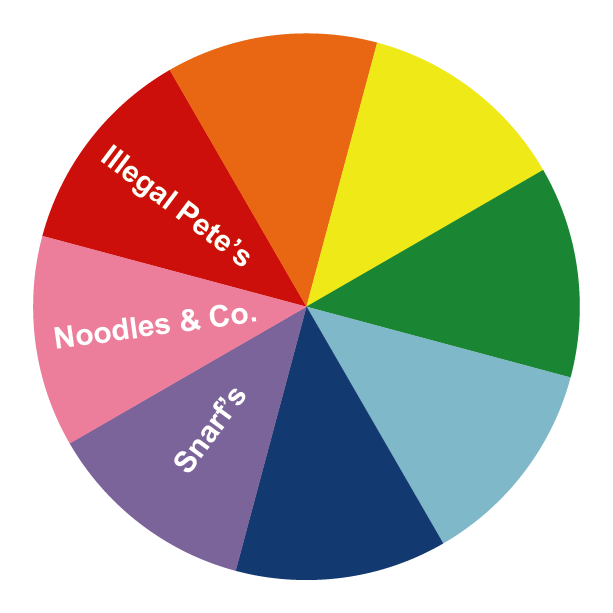
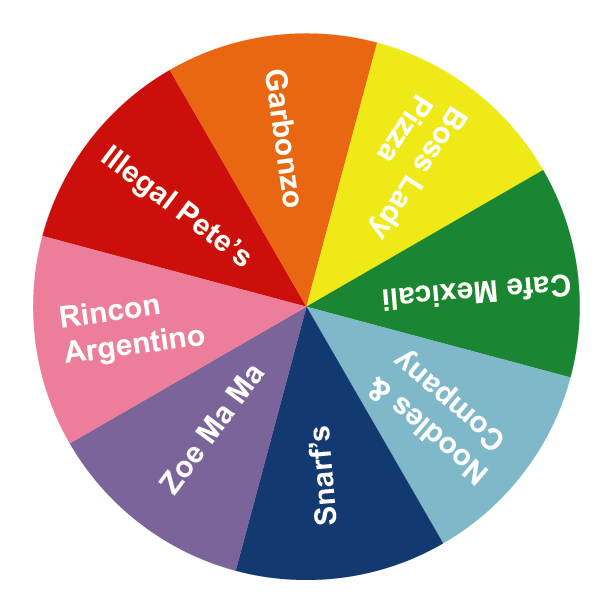
UI Programming
Updated wheel to have all titles. Fixed popup heading based on spin

diff --git a/dinnerPicker.js b/dinnerPicker.js
@@ -1,11 +1,12 @@
   var fastCasual = ["Illegal Pete's", "Rincon Argentino", "Zoe Ma Ma", "Snarfs", "Noodles and Company", "Cafe Mexicali", "Boss Lady Pizza", "Garbonzo"]
+  //var fastCasual = ["Red", "Pink", "Purple", "Blue", "LBlue", "Green", "Yellow", "Orange"];
+  var currentSpot = -192;
 
   //listen to shake event
     var shakeEvent = new Shake({threshold: 15});
     shakeEvent.start();
 
     window.addEventListener('shake', function(){
-        alert("Shaked");
         pasusePlayAnimation();
     }, false);
 
@@ -36,40 +37,60 @@ $("#spinButton").click(function(){
 
 function pasusePlayAnimation(){
     var randTime = Math.floor((Math.random() * 8000) + 1000);
-    switch(true){
-        case (randTime<2000):{
-            console.log("<2000");
-            break;
-        }
-        case (randTime<3000):{
-            console.log("<3000");
-            break;
-        }
-        case (randTime<4000):{
-            console.log("<4000");
-            break;
-        }
-        case (randTime<5000):{
-            console.log("<5000");
-            break;
-        }
-        case (randTime<6000):{
-            console.log("<7000");
-            break;
-        }
-        case (randTime<7000):{
-            console.log("<7000");
-            break;
-        }
-        default: {
-            console.log(randTime);
-            break;
-        }
-    }
+
+    //range for each spot is 375 milliseconds at the speed of 3s per rotation
+    //it first changes colors at 195
+    //need to account for where starting from, in case spun again
+    //TODO: fix edge cases
+    var scaledRandTime = (randTime+currentSpot) - Math.floor((randTime+currentSpot)/3000)*3000;
+
+    currentSpot = scaledRandTime;
+    console.log(randTime);
+    console.log(scaledRandTime);
     setTimeout(stopAnimation, randTime) //referenced from https://www.w3schools.com/js/js_timing.asp
     document.getElementById("wheel").style.animationPlayState = "running";
 }
 
 function stopAnimation(){
     document.getElementById("wheel").style.animationPlayState = "paused";
+     var newHeading = "You should eat at ";
+    switch(true){ 
+        case (currentSpot < 375  ):{
+            newHeading += fastCasual[0];
+            break;
+        }
+        case (currentSpot < 750):{
+            newHeading += fastCasual[1];
+            break;
+        }
+        case (currentSpot<1125):{
+            newHeading += fastCasual[2];
+            break;
+        }
+        case (currentSpot < 1500):{
+            newHeading += fastCasual[3];
+            break;
+        }
+        case (currentSpot < 1875):{
+            newHeading += fastCasual[4];
+            break;
+        }
+        case (currentSpot < 2250):{
+            newHeading += fastCasual[5];
+            break;
+        }
+        case (currentSpot < 2625):{
+            newHeading += fastCasual[6];
+            break;
+        }
+        default: {
+            newHeading += fastCasual[7];
+            break;
+        }
+    }
+    document.getElementById("place").innerHTML = newHeading;
+}
+
+function updateHeading(){
+    document.getElementById("place").innerHTML = newHeading;
 }

diff --git a/dinnerPicker.css b/dinnerPicker.css
@@ -9,8 +9,8 @@ h1, h2, h3, h4, h5, h6 {
 #place{
 	background: white;
 	font-size: 2.5em;
-  
-
+  width:70%;
+  margin:auto;
 }
 
 
@@ -22,13 +22,13 @@ h1, h2, h3, h4, h5, h6 {
   text-align: center;
   text-decoration: none;
   outline: none;
-  color:  #303030;
-  background-color: #4CAF50;
+  color:  #FFFFFF;
+  background-color: #484848;
   border: none;
   border-radius: 15px;
   box-shadow: 0 9px #999;
 }
-#spinButton:hover {background-color: #3e8e41}
+#spinButton:hover {background-color: #303030}
 
 #spinButton:active {
   background-color: #202020;
@@ -42,28 +42,34 @@ h1, h2, h3, h4, h5, h6 {
   	float:left;
   }
   #writtenContent{
-  	width:35%;
-  	padding-top:5%;
+  	width:40%;
+  	padding-top:8%;
+    padding-left: -50px;
   }
   #wheel{
   	margin-top: -20px;
+    margin-left:10%;
   		/*image resize: https://stackoverflow.com/questions/4684304/how-can-i-resize-an-image-dynamically-with-css-as-the-browser-width-height-chang*/
 	max-width: 500px;
-	width: 65%;
+  /*width:65%;*/
+	width: 80%;
   	height: auto;
   }
   #images{
-  	width: 65%;
+    /*width: 55%;*/
+  	width: 50%;
   	height: auto;
+    margin-left:4%;
   }
   #pointer{
-  	margin-top: -20px;
+  	margin-top: 20px;
   		/*image resize: https://stackoverflow.com/questions/4684304/how-can-i-resize-an-image-dynamically-with-css-as-the-browser-width-height-chang*/
 	max-width: 30px;
 
 	width: 40%;
   	height: auto;
-  	margin-left: 28%;
+    margin-left: 45%;
+  	/*margin-left: 38%;*/
   }
 
   h1{
@@ -74,7 +80,7 @@ h1, h2, h3, h4, h5, h6 {
 	text-align: center;
 	margin-top: -10px;
 	width: 80%;
-	margin-left: 10%
+	margin-left: -10%
 	}
 	#spinButton{
 		margin-left:30%;
@@ -101,7 +107,7 @@ h1, h2, h3, h4, h5, h6 {
   	height: auto;
   }
   #pointer{
-  	margin-top: 0px;
+  	margin-top: 15px;
   		/*image resize: https://stackoverflow.com/questions/4684304/how-can-i-resize-an-image-dynamically-with-css-as-the-browser-width-height-chang*/
 	max-width: 30px;
 
@@ -112,6 +118,9 @@ h1, h2, h3, h4, h5, h6 {
   h1{
 	text-align: center;
 	font-size: 2em;
+}
+#place{
+  font-size: 2.3em;
 }
 h4{
 	text-align: center;

diff --git a/index.html b/index.html
@@ -7,7 +7,7 @@
 <body>
 <h1 id="mainHeader">What's for dinner?</h1>
 <!--<h4>Picking a where to eat in Boulder can be difficult. Why not let the Boulder Dinner Wheel make the decision for you?</h4>-->
-<h1 id="place">You should eat at Illegal Pete's!</h1>
+<h1 id="place">You should eat at ???</h1>
 
 <div id="images" class="content">
 	<img id="pointer" src="pointer.png" alt="A triangle to denote selected segment of wheel">
@@ -15,7 +15,7 @@
 	<img src="wheel.png"  id="wheel" alt="color wheel with dinner choices">
 </div>
 <div class="content" id="writtenContent">
-	<h2>Shake your phone or tap the wheel to figure out where to eat for dinner</h2>
+	<h2>Shake your device or tap the button to figure out where to eat for dinner</h2>
 	<button id="spinButton">Spin!</button>
 </div>
 
